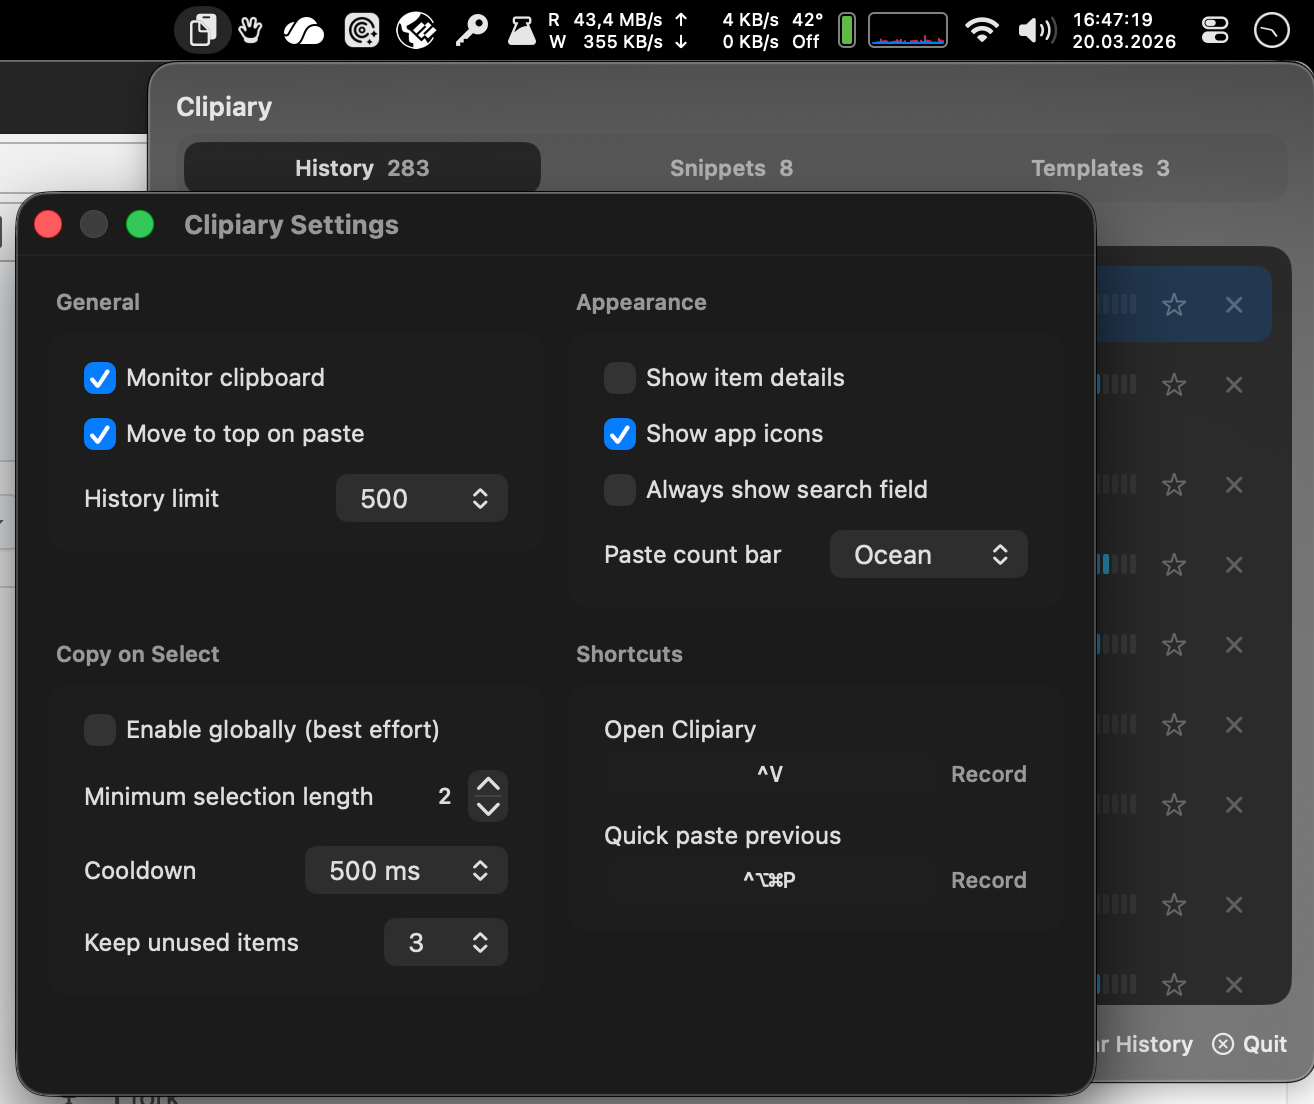
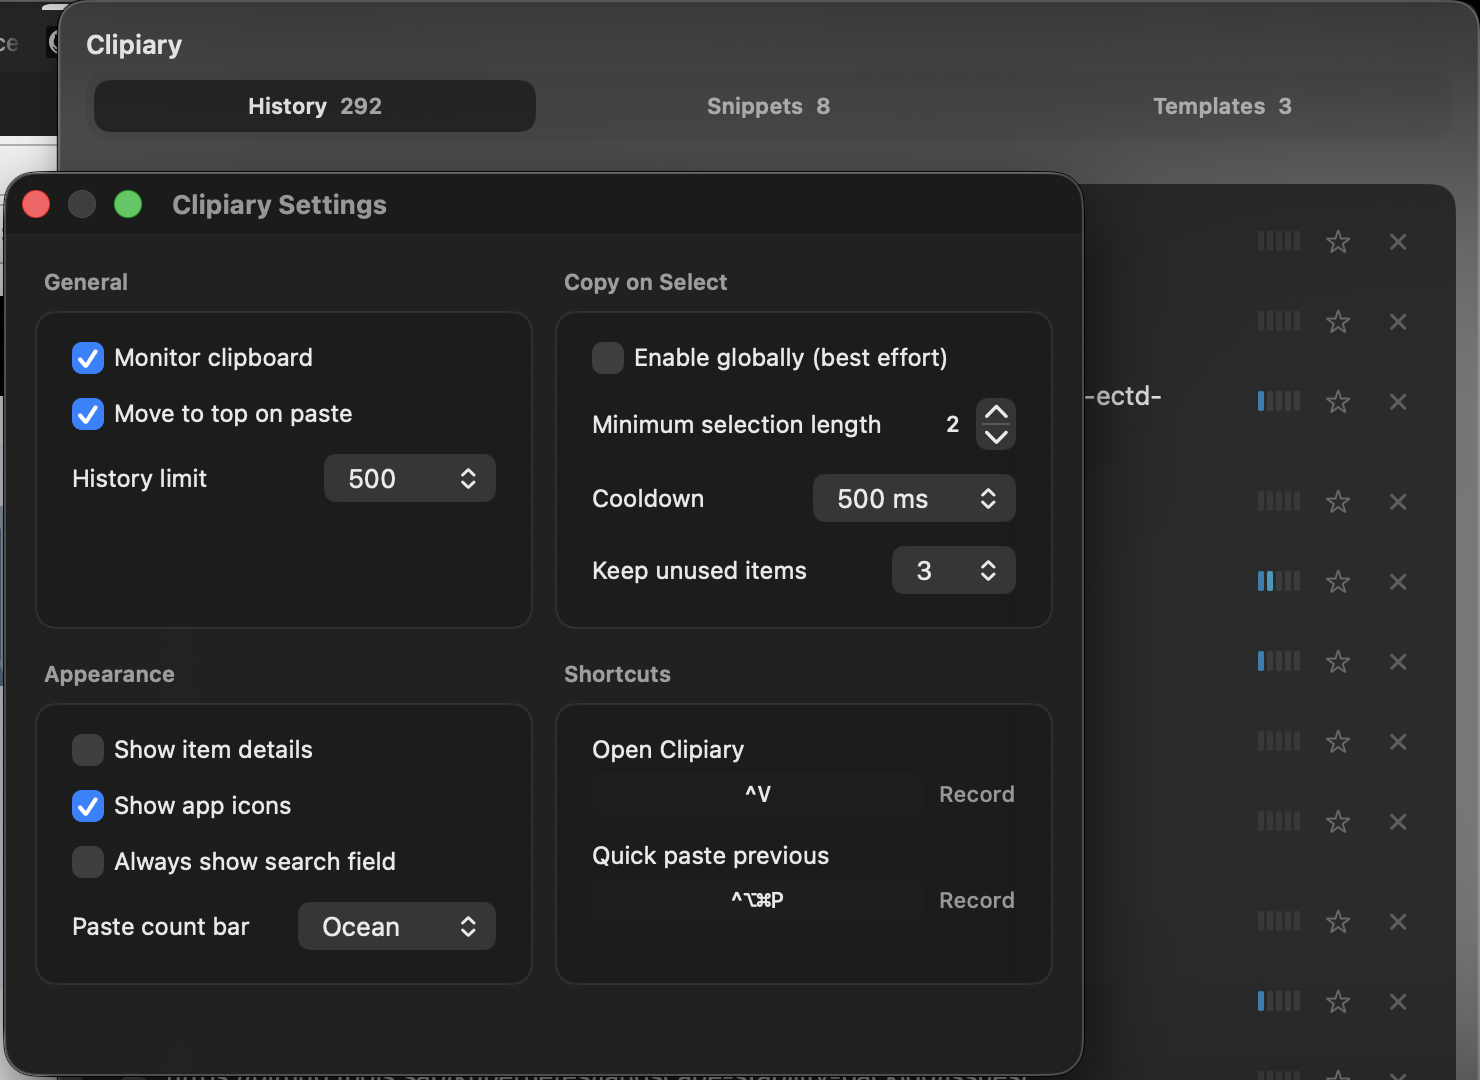
equally sized settings groups

diff --git a/Sources/ClipiaryApp/SettingsView.swift b/Sources/ClipiaryApp/SettingsView.swift
@@ -195,9 +195,10 @@ struct SettingsView: View {
 
             VStack(alignment: .leading, spacing: 2) {
                 content()
+                Spacer(minLength: 0)
             }
             .padding(10)
-            .frame(maxWidth: .infinity, alignment: .leading)
+            .frame(maxWidth: .infinity, maxHeight: .infinity, alignment: .topLeading)
             .background(
                 RoundedRectangle(cornerRadius: 10, style: .continuous)
                     .fill(Color.black.opacity(0.15))
@@ -207,7 +208,7 @@ struct SettingsView: View {
                     .stroke(Color.white.opacity(0.08), lineWidth: 1)
             )
         }
-        .frame(maxWidth: .infinity)
+        .frame(maxWidth: .infinity, maxHeight: .infinity, alignment: .topLeading)
     }
 
     private func settingMetric<Control: View>(title: String, @ViewBuilder control: () -> Control) -> some View {
